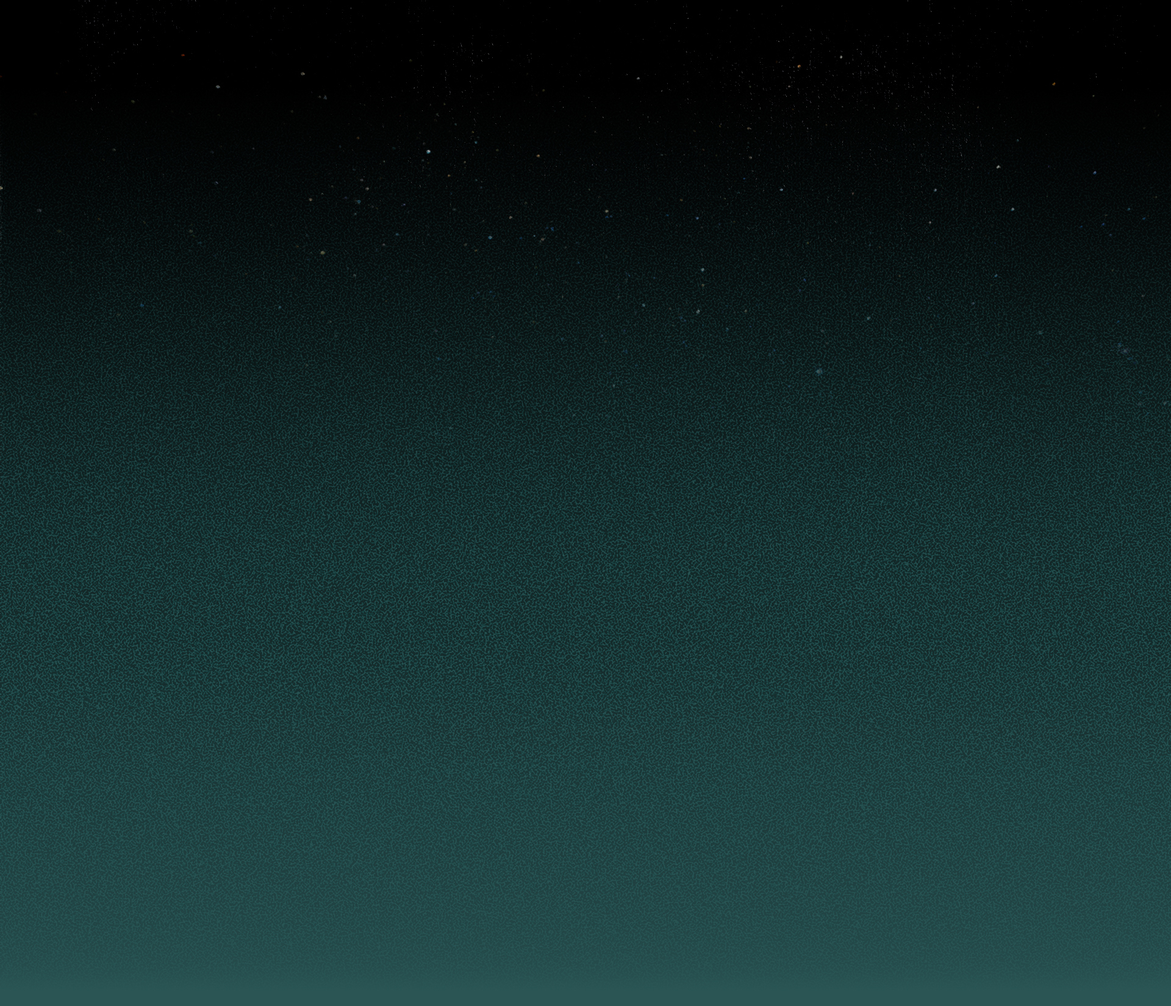
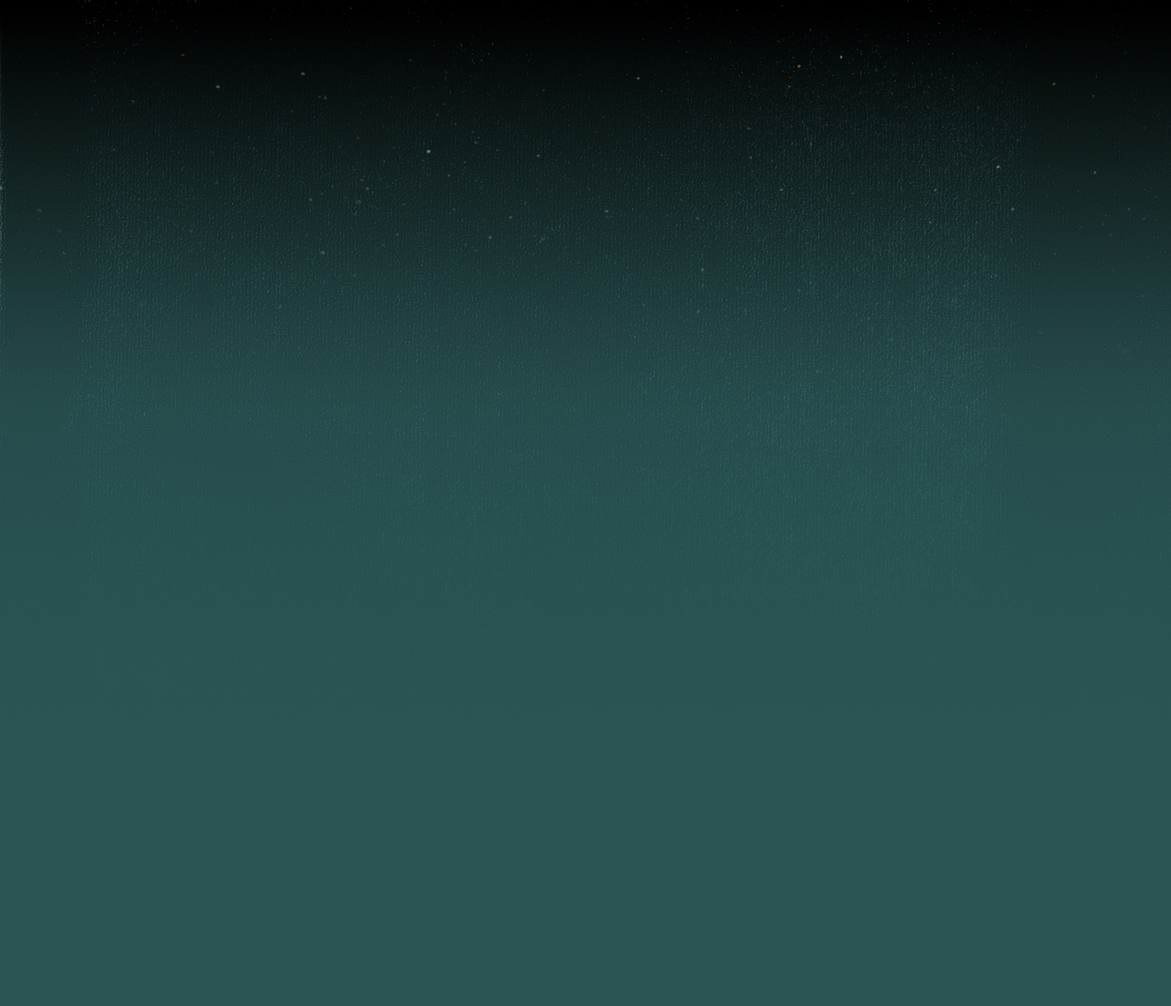
Ajustes implementados pós revisão da equipe

diff --git a/stylesheets/main.css b/stylesheets/main.css
@@ -498,6 +498,10 @@ p.box-info-texto-final {
   width: 50%;
 }
 
+.icone-box-mobile, .missao-header-img-mobile {
+  display: none;
+}
+
 
 /* MEDIA QUERYS */
 @media (max-width: 1199px) {
@@ -660,8 +664,17 @@ p.box-info-texto-final {
     margin-top: 320px;
   }
 
+  .criterios {
+    margin: 0 auto 175px 0;
+    display: flex;
+    flex-direction: column;
+    justify-content: center;
+    align-items: center;
+  }
+
   .criterios > h2 {
-    width: 65%;
+    width: 100%;
+    text-align: center;
   }
 
   .criterios > p {
@@ -673,8 +686,18 @@ p.box-info-texto-final {
   }
 
   .icone-box {
-    left: -10px;
-    bottom: 292px;
+    display: none;
+  }
+
+  .icone-box-mobile {
+    display: flex;
+    justify-content: center;
+    align-items: center;
+    margin-bottom: 50px;
+  }
+
+  #introducao-criterios {
+    padding-top: 0;
   }
 
   .criterios-cards-item {
@@ -712,33 +735,58 @@ p.box-info-texto-final {
   .botao-final-container > img {
     display: none;
   }
-}
 
-@media (max-width: 609px) {
-  .criterios > p {
+  .section-content > .box-explicativo > ul {
     width: 80%;
+    padding: 30px 0 20px 0;
   }
 }
 
 @media (max-width: 575px) {
-  .criterios > p {
-    width: 95%;
+  .botao-login-box > button {
+    font-size: 20px;
+    width: 355px;
+    margin-left: 4%;
   }
 
-  .criterios > h2 {
-    width: 70%;
+  .botoes-inicio > button {
+    font-size: 20px;
+    width: 330px;
+    height: 65px;
   }
 
   .criterios-cards-item {
     width: 90%;
   }
 
-  .icone-olho {
-    width: 15%;
-  }
-
   .sua-missao-cards-item {
     height: auto;
+  }
+
+  .section-content > .box-explicativo > ul {
+    padding: 30px 0 10px 0;
+  }
+
+  #box-2 {
+    flex-direction: column;
+    padding: 30px 0 30px 0;
+  }
+
+  .sua-missao-header {
+    margin-top: 20px;
+  }
+
+  .sua-missao-header-column2 {
+    display: none;
+  }
+
+  .sua-missao-header-column1 {
+    margin: 0 auto;
+  }
+
+  .missao-header-img-mobile {
+    width: 100%;
+    display: block;
   }
 }
 
@@ -770,23 +818,20 @@ p.box-info-texto-final {
   .section-content > .box-explicativo > ul > li:not(:last-child) {
     margin-bottom: 10px;
   }
-
-  .criterios > h2 {
-    width: 75%;
-  }
 }
 
 @media (max-width: 469px) {
   .botao-login-box > button {
-    font-size: 20px;
-    width: 355px;
+    font-size: 19px;
+    width: 325px;
     margin-left: 4%;
   }
 
   .botoes-inicio > button {
     font-size: 20px;
-    width: 330px;
+    width: 285px;
     height: 65px;
+    margin: 0 auto;
   }
 
   .box-explicativo {
@@ -836,15 +881,7 @@ p.box-info-texto-final {
   .criterios-cards-item > h3 {
     width: 300px;
     font-size: 24px;
-  }
-
-  .criterios > h2 {
-    width: 80%;
   } 
-
-  .icone-box {
-    bottom: 318px;
-  }
 
   .criterios > h2 {
     font-size: 31px;
@@ -864,5 +901,9 @@ p.box-info-texto-final {
 
   .botao-final-container > button {
     font-size: 20px;
+  }
+
+  .criterios {
+    margin: 0 auto 100px 0;
   }
 }

diff --git a/components/creditos.js b/components/creditos.js
@@ -8,7 +8,7 @@ let creditosContent = `
 
       <h6>UNIVERSIDADE VIRTUAL DO ESTADO DE SÃO PAULO – UNIVESP</h6>
       <p><span class="funcao">Presidente</span>Marcos Augusto Francisco Borges</p>
-      <p><span class="funcao">Diretora Acadêmica</span>Romero Tori</p>
+      <p><span class="funcao">Diretor Acadêmico</span>Romero Tori</p>
 
       <h6>Equipe</h6>
       <p><span class="funcao">Docente responsável</span>Willian José Ferreira</p>
@@ -17,7 +17,7 @@ let creditosContent = `
       <p><span class="funcao">Designer Instrucional</span>Juliana Quitério Lopez Salvaia</p>
       <p><span class="funcao">Roteirização</span>Willian José Ferreira e Juliana Quitério Lopez Salvaia</p>
       <p><span class="funcao">Arte</span>Alex Fernandes</p>
-      <p><span class="funcao">Programação</span>Gabriel Henrique Gallo da Silva, Debora Lais Vieira T. do Nascimento e Jose Roberto Candido da Silva</p>
+      <p><span class="funcao">Programação</span>Gabriel Henrique Gallo da Silva, Debora Lais Vieira T. do Nascimento e José Roberto Candido da Silva</p>
       <p><span class="funcao">Entusiasta da Iniciativa</span>José Adriano Silva de Oliveira</p>
 
     </div>

diff --git a/index.html b/index.html
@@ -154,6 +154,9 @@
 
     <section id="introducao-criterios">
       <div class="section-content" id="sectionCriterios-content">
+        <div class="icone-box-mobile">
+          <img class="icone-olho" src="assets/introducao/olho_mobile.png" alt="">
+        </div>
         <div class="criterios"> 
           <h2>Como observar: critérios que orientam o seu olhar</h2>
           <p>Durante a visita, procure observar com atenção alguns aspectos que te ajudarão a construir uma análise consistente e conectada à prática docente:</p>
@@ -188,6 +191,7 @@
 
       <div class="sua-missao-header">
         <div class="sua-missao-header-column1">
+          <img src="assets/introducao/foguete_com_traco.png" class="missao-header-img-mobile" alt="">
           <h2>Sua missão</h2>
           <p>Agora é hora de agir!</p>
         </div>
